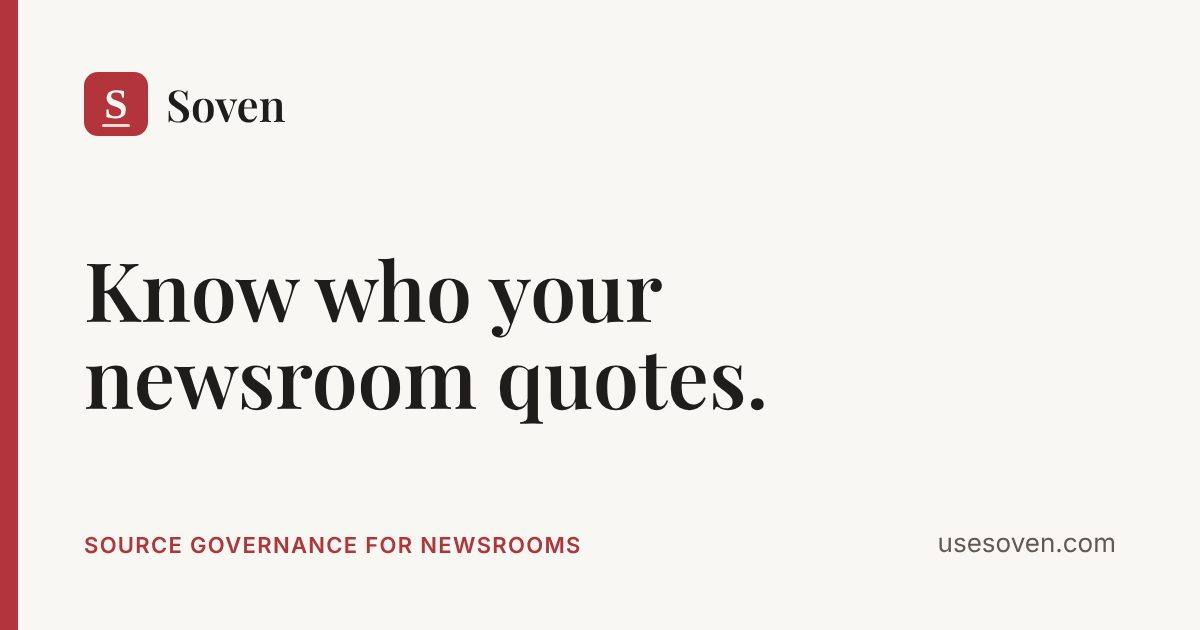
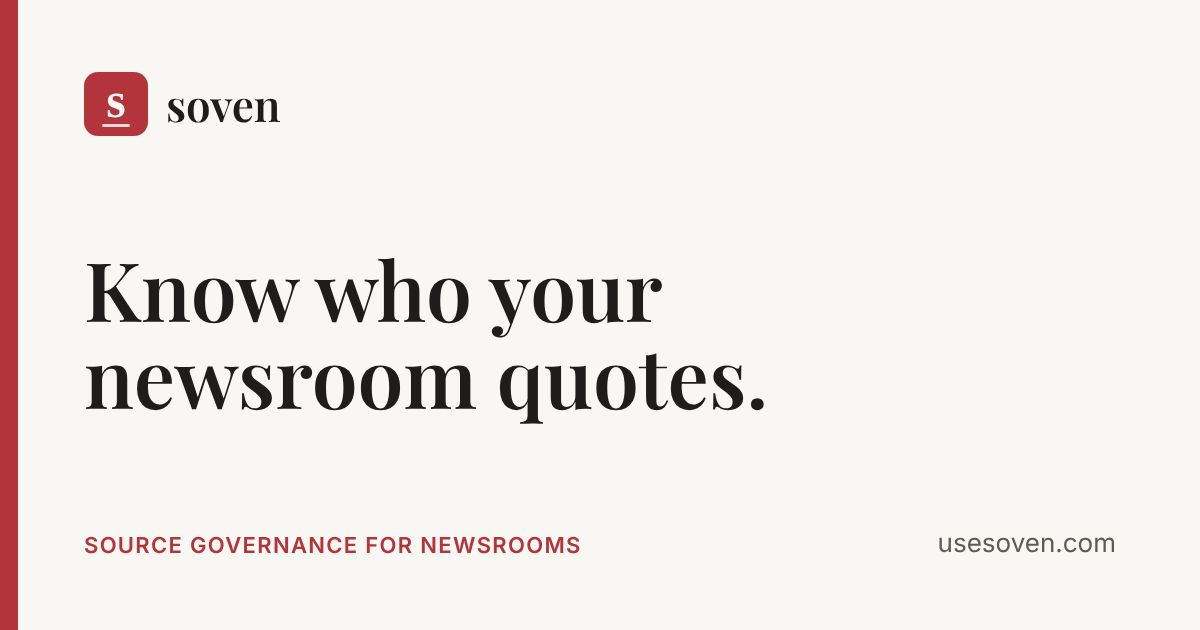
Add files via upload

diff --git a/index.html b/index.html
@@ -3,8 +3,8 @@
 <head>
 <meta charset="utf-8">
 <meta name="viewport" content="width=device-width, initial-scale=1">
-<title>Soven · Source Governance for Newsrooms</title>
-<meta name="description" content="Soven is a browser extension that records the sources behind every story as reporters work. Reporters approve each record. The newsroom owns the repository.">
+<title>soven · Source Governance for Newsrooms</title>
+<meta name="description" content="soven is a browser extension that records the sources behind every story as reporters work. Reporters approve each record. The newsroom owns the repository.">
 <link rel="canonical" href="https://usesoven.com/">
 <link rel="icon" href="/favicon.svg" type="image/svg+xml">
 <link rel="preconnect" href="https://fonts.googleapis.com">
@@ -13,16 +13,16 @@
 <meta name="theme-color" content="#B3343B">
 
 <meta property="og:type" content="website">
-<meta property="og:site_name" content="Soven">
+<meta property="og:site_name" content="soven">
 <meta property="og:url" content="https://usesoven.com/">
-<meta property="og:title" content="Soven · Source Governance for Newsrooms">
+<meta property="og:title" content="soven · Source Governance for Newsrooms">
 <meta property="og:description" content="Know who your newsroom quotes. A browser extension that records sources as reporters work, with a reporter approving every record.">
 <meta property="og:image" content="https://usesoven.com/og.jpg">
 <meta property="og:image:width" content="1200">
 <meta property="og:image:height" content="630">
-<meta property="og:image:alt" content="Soven: source governance for newsrooms">
+<meta property="og:image:alt" content="soven: source governance for newsrooms">
 <meta name="twitter:card" content="summary_large_image">
-<meta name="twitter:title" content="Soven · Source Governance for Newsrooms">
+<meta name="twitter:title" content="soven · Source Governance for Newsrooms">
 <meta name="twitter:description" content="Know who your newsroom quotes. A browser extension that records sources as reporters work, with a reporter approving every record.">
 <meta name="twitter:image" content="https://usesoven.com/og.jpg">
 
@@ -44,7 +44,7 @@
 }
 
 *{box-sizing:border-box}
-html{-webkit-text-size-adjust:100%}
+html{-webkit-text-size-adjust:100%;scroll-behavior:smooth}
 body{margin:0;background:var(--bg);color:var(--ink);font:400 17px/1.6 Inter,system-ui,-apple-system,"Segoe UI",sans-serif}
 a{color:var(--accent)}
 .wrap{max-width:1040px;margin:0 auto;padding:0 16px}
@@ -102,8 +102,8 @@ footer .wrap{display:flex;flex-wrap:wrap;gap:8px 24px;justify-content:space-betw
 
 <header>
   <div class="wrap">
-    <a class="brand" href="/" aria-label="Soven home"><img src="/favicon.svg" alt="" width="30" height="30">Soven</a>
-    <a class="nav-cta" href="mailto:hello@usesoven.com?subject=Soven%20pilot">Request a pilot →</a>
+    <a class="brand" href="/" aria-label="soven home"><img src="/favicon.svg" alt="" width="30" height="30">soven</a>
+    <a class="nav-cta" href="#pilot">Request a pilot →</a>
   </div>
 </header>
 
@@ -111,18 +111,18 @@ footer .wrap{display:flex;flex-wrap:wrap;gap:8px 24px;justify-content:space-betw
   <div class="wrap hero">
     <p class="eyebrow">Source governance for newsrooms</p>
     <h1>Know who your newsroom quotes.</h1>
-    <p class="lede">Soven is a browser extension that records the sources behind every story as reporters work. A reporter approves each record. Editors get a source repository the newsroom owns, and a clear picture of whose voices make it into the coverage.</p>
-    <a class="btn" href="mailto:hello@usesoven.com?subject=Soven%20pilot">Request a pilot</a>
+    <p class="lede">soven is a browser extension that records the sources behind every story as reporters work. A reporter approves each record. Editors get a source repository the newsroom owns, and a clear picture of whose voices make it into the coverage.</p>
+    <a class="btn" href="#pilot">Request a pilot</a>
   </div>
 
   <section id="how">
     <div class="wrap">
       <h2>How It Works</h2>
-      <p class="intro">Reporters don't adopt manual tagging, so Soven reads the story and does the first pass. The reporter stays in charge of every record.</p>
+      <p class="intro">Reporters don't adopt manual tagging, so soven reads the story and does the first pass. The reporter stays in charge of every record.</p>
       <ol class="steps">
-        <li><h3>Capture</h3><p>Soven reads the draft or published story in the browser and suggests each person quoted, with role and context.</p></li>
+        <li><h3>Capture</h3><p>soven reads the draft or published story in the browser and suggests each person quoted, with role and context.</p></li>
         <li><h3>Approve</h3><p>The reporter confirms or corrects each source. Every field the model fills in shows a confidence score.</p></li>
-        <li><h3>Match</h3><p>Soven recognizes sources the newsroom has used before and links them, so one person is one record across stories.</p></li>
+        <li><h3>Match</h3><p>soven recognizes sources the newsroom has used before and links them, so one person is one record across stories.</p></li>
         <li><h3>Report</h3><p>Editors see the newsroom's sourcing in one place: who appears, how often, and who's missing.</p></li>
       </ol>
     </div>
@@ -148,10 +148,10 @@ footer .wrap{display:flex;flex-wrap:wrap;gap:8px 24px;justify-content:space-betw
     <div class="wrap two">
       <div>
         <h2>Your Sources Stay Yours</h2>
-        <p class="intro">Source records are sensitive. Soven is built around that.</p>
+        <p class="intro">Source records are sensitive. soven is built around that.</p>
       </div>
       <ul class="checks">
-        <li><strong>The newsroom owns its repository.</strong> Soven holds records only to run the service.</li>
+        <li><strong>The newsroom owns its repository.</strong> soven holds records only to run the service.</li>
         <li><strong>Each newsroom's records are kept separate</strong> unless the organization chooses to combine them.</li>
         <li><strong>Export or delete at any time,</strong> and at the end of a contract.</li>
         <li><strong>A person approves every record.</strong> Nothing enters the repository on the model's word alone.</li>
@@ -162,11 +162,11 @@ footer .wrap{display:flex;flex-wrap:wrap;gap:8px 24px;justify-content:space-betw
   <section id="proof">
     <div class="wrap">
       <h2>Where It Comes From</h2>
-      <p class="intro">Soven was built by Natalie Holly Purviance, a journalist and civic technologist in Atlanta, and tested with working reporters from the start.</p>
+      <p class="intro">soven was built by Natalie Holly Purviance, a journalist and civic technologist in Atlanta, and tested with working reporters from the start.</p>
       <div class="proof">
         <div><b>CUNY Newmark AI Journalism Lab</b><span>Built during the Lab's 2026 Builders cohort.</span></div>
         <div><b>Nordic AI Journalism showcase</b><span>One of 4 projects selected from a cohort of 24, September 2026.</span></div>
-        <div><b>In newsroom use</b><span>Reporters at two newsrooms have used it on published stories since September 2026.</span></div>
+        <div><b>Built by a journalist</b><span>Designed by an investigative reporter trained in data journalism at Columbia's Lede Program.</span></div>
       </div>
     </div>
   </section>
@@ -175,8 +175,8 @@ footer .wrap{display:flex;flex-wrap:wrap;gap:8px 24px;justify-content:space-betw
     <div class="wrap">
       <div class="cta">
         <h2>Run a Pilot</h2>
-        <p>Pilots run across one or more newsrooms, include onboarding and support, and end with a source audit report for leadership. Tell us about your newsroom and we'll set up a demo.</p>
-        <a class="btn" href="mailto:hello@usesoven.com?subject=Soven%20pilot">hello@usesoven.com</a>
+        <p>Pilots run across one or more newsrooms, include onboarding and support, and end with a source audit report for leadership. Email <strong>hello@usesoven.com</strong> with your newsroom's name and what you'd like to learn about your sourcing, and we'll set up a demo.</p>
+        <a class="btn" href="mailto:hello@usesoven.com?subject=soven%20pilot">Email us</a>
       </div>
     </div>
   </section>
